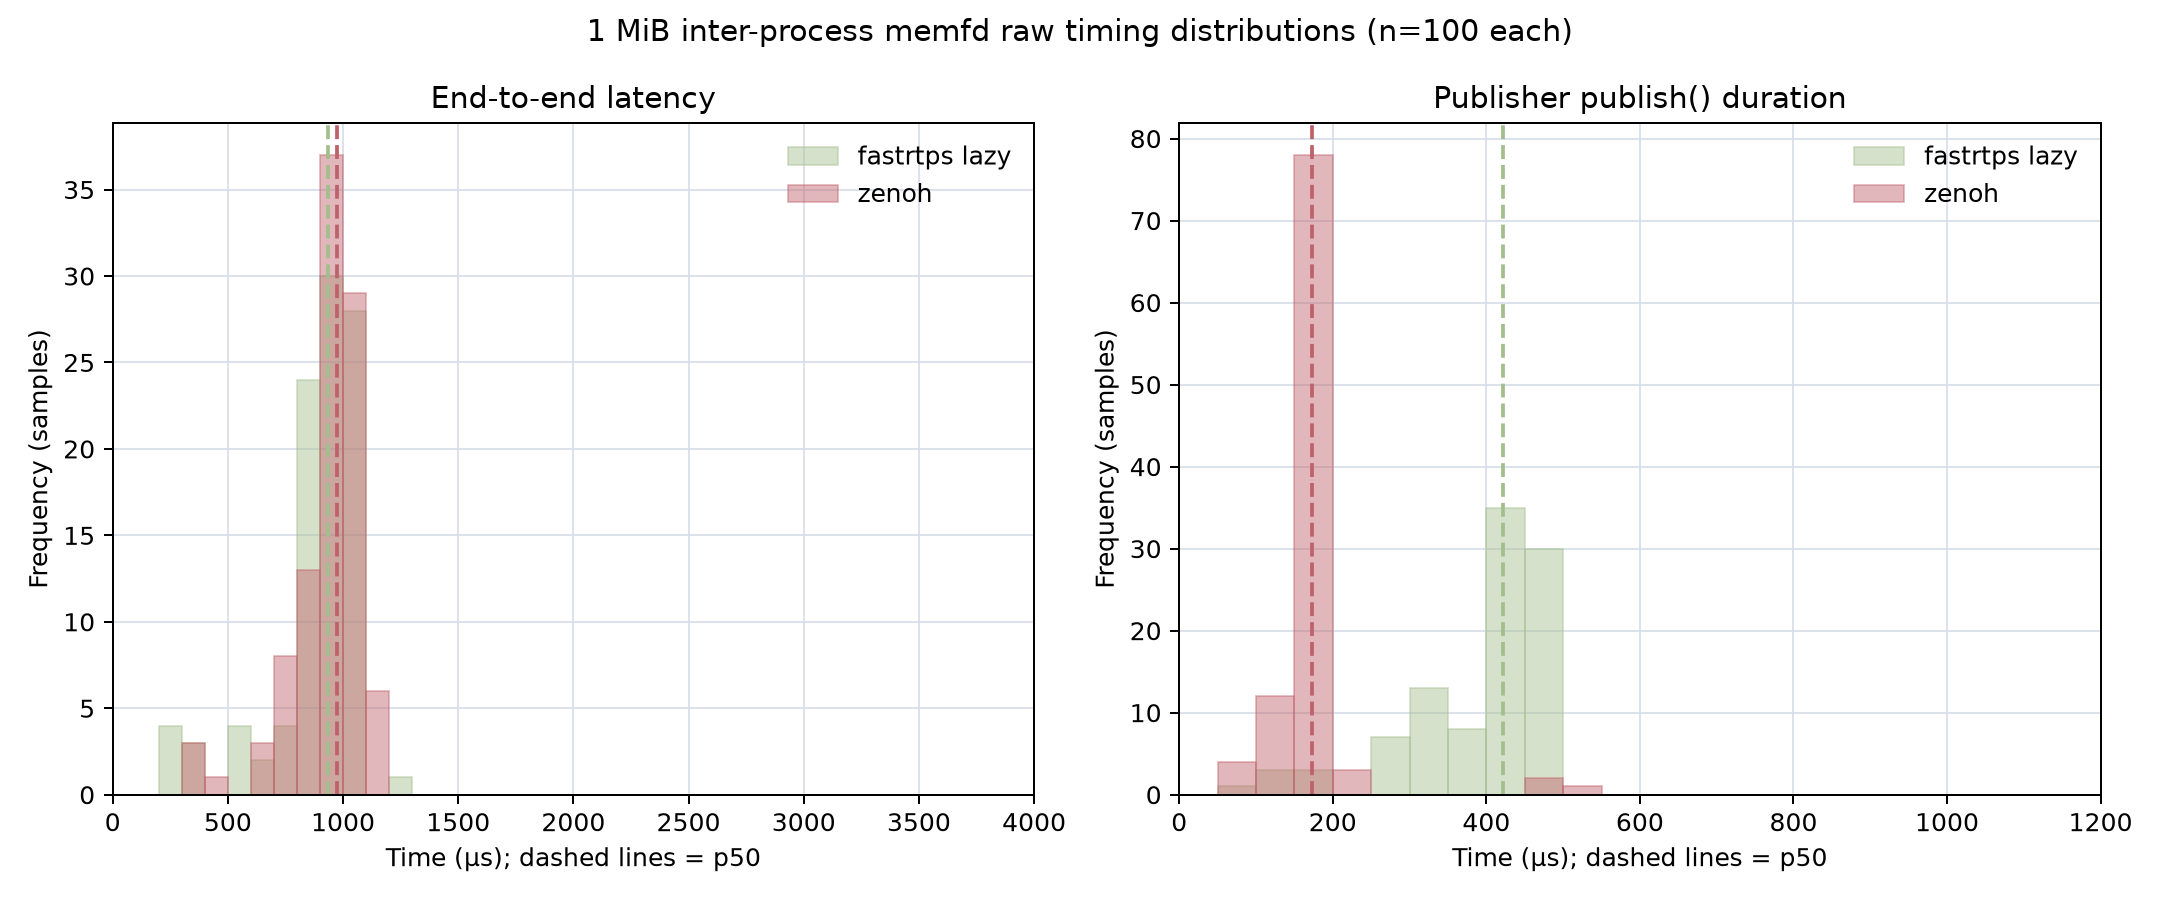
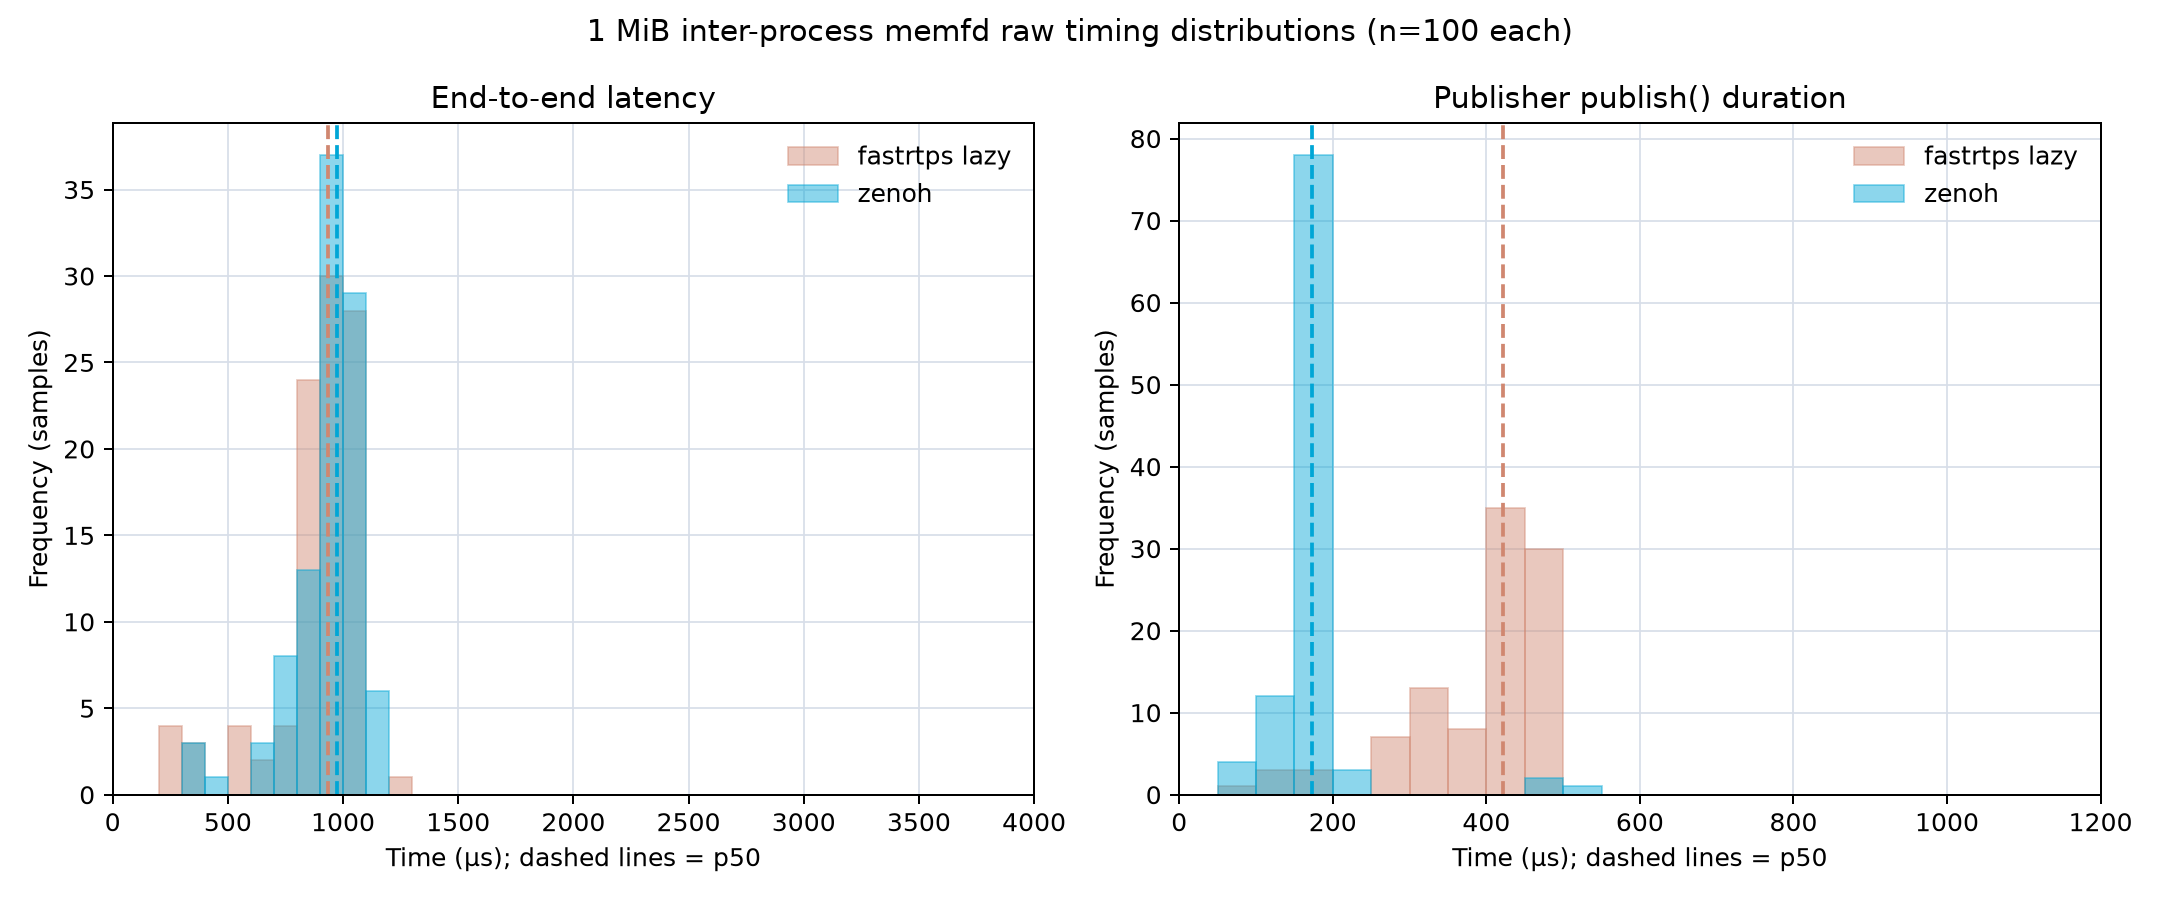
Fix Zenoh comparison plot styling

diff --git a/tools/plot_zenoh_comparison.py b/tools/plot_zenoh_comparison.py
@@ -15,10 +15,11 @@ import matplotlib.pyplot as plt
 
 SIZES = (64, 1024, 4096, 16384, 65536, 262144, 1048576, 4194304, 16777216)
 VARIANTS = ("lazy", "zenoh")
-COLORS = {
-    "lazy": "#A3BE8C",
-    "zenoh": "#BF616A",
+FASTRTPS_COLORS = {
+    "cpu": "#5E81AC",
+    "memfd": "#D08770",
 }
+ZENOH_COLOR = "#00A6D6"
 LABELS = {
     "lazy": "fastrtps lazy",
     "zenoh": "zenoh",
@@ -29,6 +30,11 @@ PATHS = (
     ("intra_process_va", "cpu", "Intra-process CPU"),
     ("intra_process_va", "memfd", "Intra-process memfd"),
 )
+LATENCY_YLIM = (10, 3e4)
+
+
+def color_for(variant, backend):
+    return FASTRTPS_COLORS[backend] if variant == "lazy" else ZENOH_COLOR
 
 
 def size_label(size):
@@ -71,7 +77,7 @@ def setup_axis(axis):
     axis.set_xscale("log", base=2)
     axis.set_xticks(SIZES)
     axis.set_xticklabels([size_label(size) for size in SIZES], rotation=35, ha="right")
-    axis.grid(True, which="both", color="#D8DEE9", linewidth=0.7)
+    axis.grid(True, which="major", color="#D8DEE9", linewidth=0.7)
     axis.set_axisbelow(True)
 
 
@@ -81,9 +87,13 @@ def plot_memfd_latency(data, output):
         values = [data[variant][("inter_process", "memfd", size)]["e2e"]["p50"] for size in SIZES]
         axis.plot(
             SIZES, values, marker="o", linewidth=2, markersize=4,
-            color=COLORS[variant], label=LABELS[variant],
+            color=color_for(variant, "memfd"),
+            linestyle="--" if variant == "zenoh" else "-",
+            label=LABELS[variant],
         )
     setup_axis(axis)
+    axis.set_yscale("log")
+    axis.set_ylim(*LATENCY_YLIM)
     axis.set_ylabel("End-to-end latency p50 (µs)")
     axis.set_title("Inter-process memfd latency: zenoh vs fastrtps lazy")
     axis.legend(ncol=2, frameon=False)
@@ -93,20 +103,23 @@ def plot_memfd_latency(data, output):
 
 
 def plot_backend_latency(data, output):
-    figure, axes = plt.subplots(1, 2, figsize=(12, 5.2), sharey=False)
+    figure, axes = plt.subplots(1, 2, figsize=(12, 5.2), sharey=True)
     for axis, backend, title in zip(axes, ("cpu", "memfd"), ("CPU backend", "memfd backend")):
-        for variant, linestyle in (("lazy", "-"), ("zenoh", "-")):
+        for variant, linestyle in (("lazy", "-"), ("zenoh", "--")):
             for percentile_name, alpha in (("p50", 1.0), ("p95", 0.48)):
                 values = [
                     data[variant][("inter_process", backend, size)]["e2e"][percentile_name]
                     for size in SIZES
                 ]
                 label = f"{LABELS[variant]} {percentile_name}" if percentile_name == "p50" else None
+                color = color_for(variant, backend)
                 axis.plot(
                     SIZES, values, marker="o", markersize=3.5, linewidth=2 if percentile_name == "p50" else 1.2,
-                    linestyle=linestyle, color=COLORS[variant], alpha=alpha, label=label,
+                    linestyle=linestyle, color=color, alpha=alpha, label=label,
                 )
         setup_axis(axis)
+        axis.set_yscale("log")
+        axis.set_ylim(*LATENCY_YLIM)
         axis.set_title(title)
         axis.set_xlabel("Payload")
         axis.set_ylabel("End-to-end latency (µs)")
@@ -127,15 +140,18 @@ def plot_one_mib_distributions(raw, output):
             values = raw[variant][("inter_process", "memfd", 1048576)][metric]
             bins = range(0, x_limit + bin_width, bin_width)
             axis.hist(
-                values, bins=bins, alpha=0.45, color=COLORS[variant],
-                edgecolor=COLORS[variant], linewidth=0.7, label=LABELS[variant],
+                values, bins=bins, alpha=0.45, color=color_for(variant, "memfd"),
+                edgecolor=color_for(variant, "memfd"), linewidth=0.7, label=LABELS[variant],
             )
-            axis.axvline(median(values), color=COLORS[variant], linestyle="--", linewidth=1.5)
+            axis.axvline(
+                median(values), color=color_for(variant, "memfd"),
+                linestyle="--", linewidth=1.5,
+            )
         axis.set_xlim(0, x_limit)
         axis.set_title(title)
         axis.set_xlabel("Time (µs); dashed lines = p50")
         axis.set_ylabel("Frequency (samples)")
-        axis.grid(True, color="#D8DEE9", linewidth=0.7)
+        axis.grid(True, which="major", color="#D8DEE9", linewidth=0.7)
         axis.set_axisbelow(True)
         axis.legend(frameon=False)
     figure.suptitle("1 MiB inter-process memfd raw timing distributions (n=100 each)")
